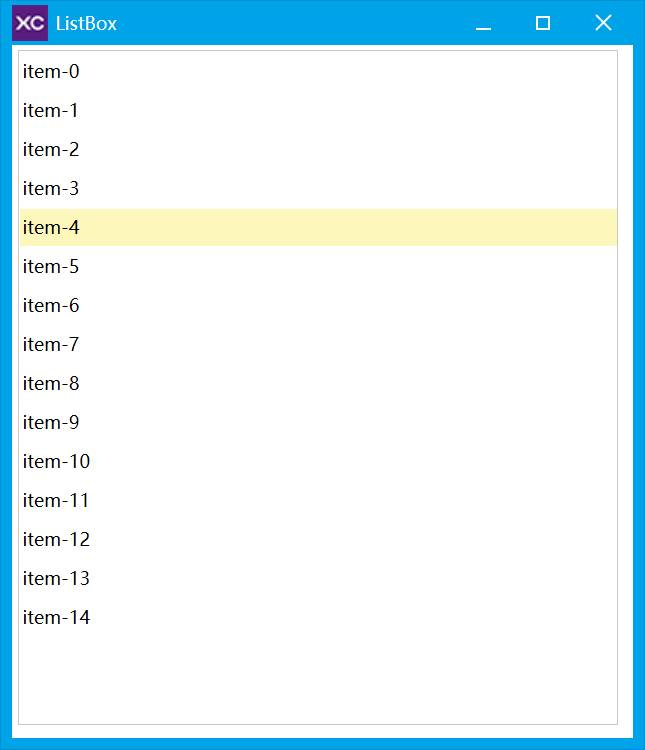
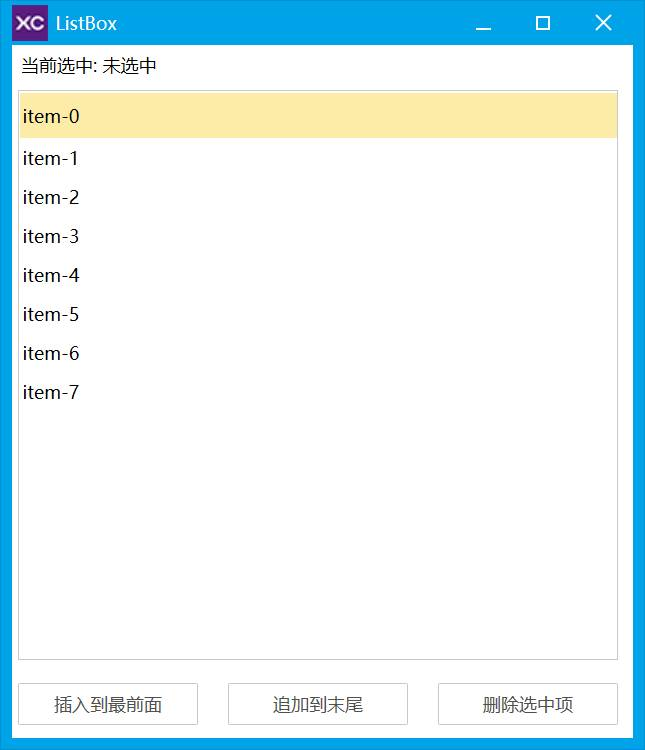
列表框

diff --git a/Basic/ListBox/ListBox.go b/Basic/ListBox/ListBox.go
@@ -18,16 +18,79 @@ func main() {
 	// 创建窗口
 	w := window.New(0, 0, 430, 500, "ListBox", 0, xcc.Window_Style_Default)
 
+	// 创建形状文本, 显示当前选中项
+	label := widget.NewShapeText(12, 32, 400, 22, "当前选中: 未选中", w.Handle)
+
 	// 创建ListBox
-	lb := widget.NewListBox(12, 33, 400, 450, w.Handle)
+	lb := widget.NewListBox(12, 60, 400, 380, w.Handle)
 
 	// 创建数据适配器, 这个必须创建, 存储数据的
 	lb.CreateAdapter()
 
-	for i := 0; i < 15; i++ {
-		// 添加行
-		lb.AddItemText(fmt.Sprintf("item-%d", i))
+	// 项计数器, 用于给新添加的项命名
+	itemCount := 0
+
+	for i := 0; i < 8; i++ {
+		// 添加行, 返回项索引
+		lb.AddItemText(fmt.Sprintf("item-%d", itemCount))
+		itemCount++
 	}
+
+	// 更新选中项显示的回调: GetSelectItem 取当前选中索引, GetItemText 取项文本
+	updateSelText := func() {
+		sel := lb.GetSelectItem() // 返回当前选中项索引, 没有选中时为 -1
+		if sel < 0 {
+			label.SetText("当前选中: 未选中")
+		} else {
+			// GetItemText 取指定项的文本, 第2个参数是列索引, 内置模板只有1列, 填0
+			itemText := lb.GetItemText(sel, 0)
+			label.SetText(fmt.Sprintf("当前选中: 索引=%d, 文本=%s", sel, itemText))
+		}
+		label.Redraw() // 修改元素显示后必须重绘
+	}
+
+	// 注册列表框项选择事件, 选中项改变时更新显示
+	lb.AddEvent_ListBox_Select(func(hEle int, iItem int32, pbHandled *bool) int {
+		updateSelText()
+		return 0
+	})
+
+	// 默认选中第0项, 会触发选择事件
+	lb.SetSelectItem(0)
+
+	// 创建按钮行: 插入一项
+	btnInsert := widget.NewButton(12, 455, 120, 28, "插入到最前面", w.Handle)
+	btnInsert.AddEvent_BnClick(func(hEle int, pbHandled *bool) int {
+		itemCount++
+		// 在索引0处插入一项, 返回插入后的项索引
+		lb.InsertItemText(0, fmt.Sprintf("insert-%d", itemCount))
+		lb.Redraw(false) // 列表内容改变后重绘
+		return 0
+	})
+
+	// 创建按钮行: 追加一项
+	btnAppend := widget.NewButton(152, 455, 120, 28, "追加到末尾", w.Handle)
+	btnAppend.AddEvent_BnClick(func(hEle int, pbHandled *bool) int {
+		itemCount++
+		lb.AddItemText(fmt.Sprintf("append-%d", itemCount))
+		lb.Redraw(false)
+		return 0
+	})
+
+	// 创建按钮行: 删除选中项
+	btnDelete := widget.NewButton(292, 455, 120, 28, "删除选中项", w.Handle)
+	btnDelete.AddEvent_BnClick(func(hEle int, pbHandled *bool) int {
+		sel := lb.GetSelectItem() // 获取当前选中索引
+		if sel < 0 {
+			w.MessageBox("提示", "请先选中一项", xcc.MessageBox_Flag_Ok, xcc.Window_Style_Modal)
+			return 0
+		}
+		// 按索引删除一项
+		lb.DeleteItem(sel)
+		lb.Redraw(false)
+		updateSelText() // 删除后选中状态会变化, 重新显示选中状态
+		return 0
+	})
 
 	w.ShowWindow(xcc.SW_SHOW)
 	a.Run()
